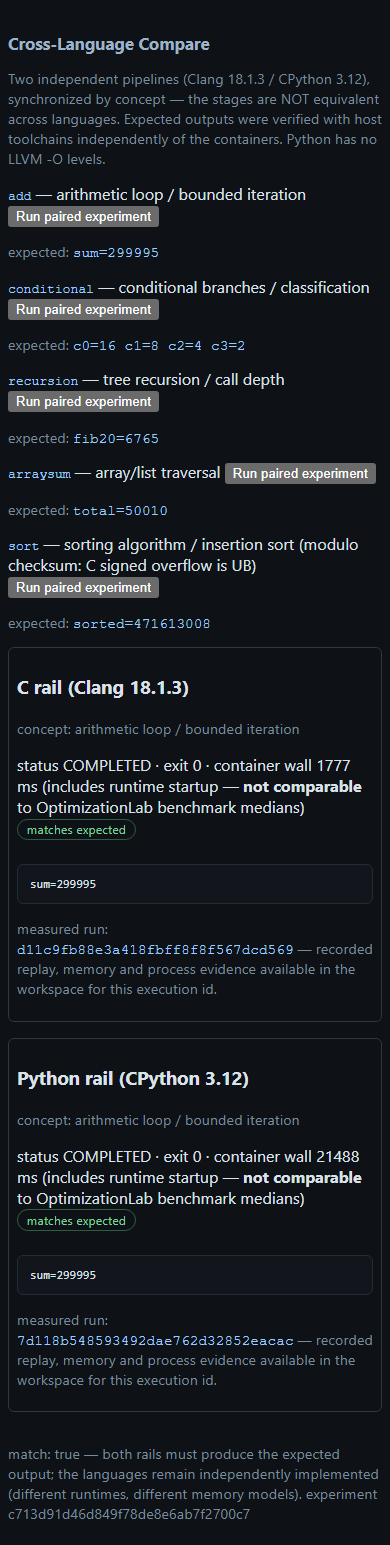
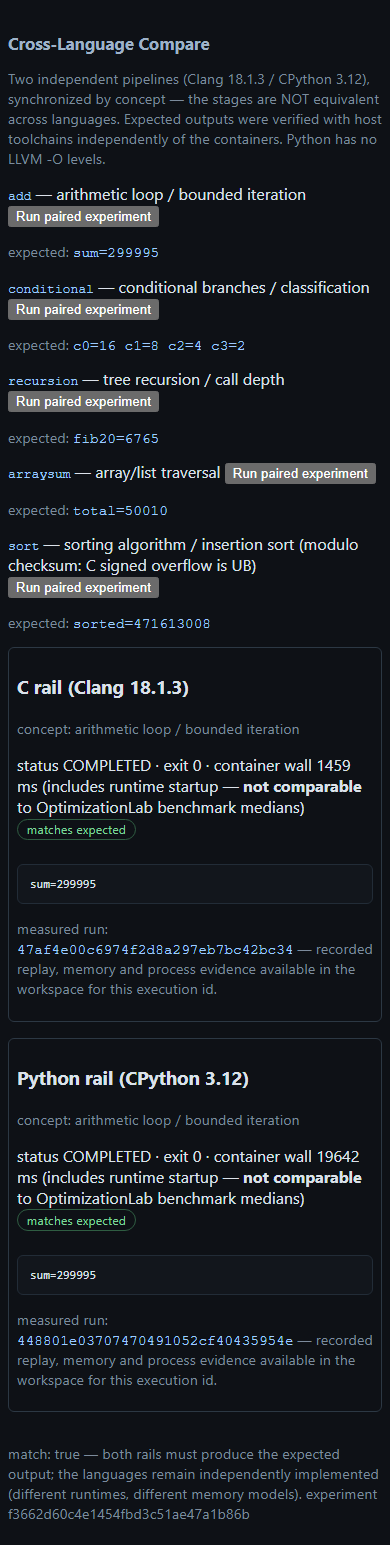
M7QA: whole-product self-audit, repair & M8/M9 handoff
Same-agent whole-product audit of M0-M7 (NOT an independent review):
- fresh clean boot from an isolated store verified (new-account launch path)
- security: 191/0/0 backend incl. all adversarial negatives; M7 endpoint
  probes clean (4MB chunked body on /demos run ignored safely, demo-link 403
  content-hash gate holds, reports sanitized); GitHub origin never executes
- scientific truth: oracle suites green (trace parity, host-clang fingerprints,
  distinct level digests, benchmark recomputation, dis oracle, side-effect-free
  tracer); five-pair table regenerated via fresh real executions with matching
  outputs + recorded hashes
- journeys: 20/20 demos journeyed in browser (run+replay) + microscope 4/4;
  viewport matrix 1920/1366/390 inspected visually - no broken layouts
- hygiene: clean tree, 275 tracked files, zero secrets/caches tracked

Repairs: README stale 'not yet implemented' header replaced with truthful
M0-M7 status (M8/M9 explicitly NOT started); canonical path typo corrected.
No code defects required repair - prior QA regression nets held.

New docs: TEST_EVIDENCE/M7QA.md, milestones/M7QA.json,
HANDOFF_AFTER_M7QA.md, REMAINING_M8_M9.md (explicit deviations),
FINAL_M0_M7_FUNCTIONAL_MATRIX.md (with launch + ZIP guidance).
Final statement: M0-M7 FUNCTIONAL PASS (internal evidence only).
M8 NOT STARTED - HARD STOP at end of M7QA.

diff --git a/e2e/m7_journeys.py b/e2e/m7_journeys.py
@@ -42,6 +42,13 @@ def journey_catalog(page: Page) -> None:
     cards = page.locator(".democard")
     expect(cards.first).to_be_visible()
     ok(cards.count() == 20, f"20 demo cards rendered (got {cards.count()})")
+    # M7QA: viewport matrix screenshots (1920 / 1366 / 390)
+    for w, h, name in ((1920, 1080, "m7_catalog_1920.png"),
+                       (1366, 768, "m7_catalog_1366.png"),
+                       (390, 844, "m7_catalog_390.png")):
+        page.set_viewport_size({"width": w, "height": h})
+        shot(page, name)
+    page.set_viewport_size({"width": 1440, "height": 900})
     page.get_by_label("search demos").fill("recursion")
     ok(page.locator(".democard").count() >= 2, "search filters by concept")
     page.get_by_label("search demos").fill("")

diff --git a/docs/TEST_EVIDENCE/M7QA.md b/docs/TEST_EVIDENCE/M7QA.md
@@ -1,0 +1,122 @@
+# M7QA Test Evidence — Whole-Product Self-Audit, Repair & Handoff
+
+Date: 1 November 2026. Scope: M7QA only. **SAME-AGENT developer self-audit of
+all work M0–M7 — NOT an independent external review and NOT an M9 release
+audit.** M7 first-pass evidence was treated as potentially containing hidden
+bugs; the audit began with a fresh clean boot and independent oracles rather
+than re-running only the existing suite.
+
+## Entry gate
+
+M4/M4QA/M5/M5QA/M6/M6QA/M7 manifests all PASS on disk with ancestry
+`8feaf62`; 20 key sandbox/compiler/benchmark regressions re-ran green
+pre-audit.
+
+## Fresh clean boot (isolated store, new-account simulation)
+
+`COMPILEVISTA` booted with an empty isolated data directory: /health OK
+(schema m6.v1), capabilities honest (pasted_execution PARTIAL), an arbitrary
+pasted C program executed end-to-end (`fresh ok`), demo C-01 completed with
+matched output + process records + sanitized report, demo PY-04 matched.
+**Launch from nothing works.** (Probe logic preserved as named regressions
+where applicable; probe script removed per repo convention.)
+
+## Audit A — security/abuse (all clean, probes + full suites)
+
+- **Full backend suite: 191 passed / 0 failed / 0 skipped** (includes: chunked
+  and missing-Content-Length body caps on /sources and /imports/github, ZIP
+  bomb ratios, path/symlink traversal, SSRF redirect-host allowlist, rate-limit
+  typed errors, DOCKER_UNAVAILABLE paths, cancellation, restart recovery).
+- New M7 endpoint probes: a 4 MB chunked body on POST /demos/{id}/run is
+  ignored safely (no read/hang); `demo-link` on an arbitrary pasted C snapshot
+  → **403 DEMO_LINK_BLOCKED** (content-hash gate holds); demo report contains
+  no source text and no host paths.
+- Docker invocations remain argv-arrays with fixed flags; image ids recorded
+  per run; no privileged fallbacks anywhere (re-verified by the M4QA/M5 suites
+  in the final run: ghost-container, flood, pids, network, canary negatives).
+- GitHub-imported code still never executes (403 EXECUTION_ORIGIN_BLOCKED).
+- Internet-facing execution remains disabled pending M9 (unchanged).
+
+## Audit B — compiler/runtime scientific truth (clean)
+
+- M4QA/M5QA/M6QA oracle suites re-ran inside the final backend run: trace
+  event parity vs host CPython, C call counts, host-clang asm fingerprint
+  equality, distinct per-level digests, benchmark stat recomputation, dis
+  structure, side-effect-free tracer, generator frame identity, exception
+  fidelity. No ghost frames, honest truncation markers, no invented pointer/
+  GC/syscall/CPU counts.
+- Fresh trace excerpts captured for evidence: C-01 first events
+  `call,call,call,return` (instrumented) with per-event sha256; PY-03
+  `call,line,line,line` (settrace).
+- Five-pair comparison table regenerated through fresh real executions — all
+  5 match with recorded source/output hashes: add `sum=299995`
+  (c 34551b8287b5…), conditional `c0=16 c1=8 c2=4 c3=2` (f812fa95d2bf…),
+  recursion `fib20=6765` (12bf8615984e…), arraysum `total=50010`
+  (d49e224ba6c6…), sort `sorted=471613008` (1235947f318e…).
+
+## Audit C — user journeys (all green, inspected visually)
+
+- Browser E2E: M7 **20/20 demos journeyed** (run + recorded replay each,
+  individual results logged), deep checks (C-05 multi-file, PY-03 recursion
+  replay), Error Microscope 4/4 genuine diagnostics; M6 2/2, M5 4/4,
+  M3+M4 6/6, M2 3/3, M1 5/5 (real GitHub import this window). No page JS
+  exceptions (pageerror captured in every journey).
+- **Viewport matrix visually inspected** (screenshots read as images, not
+  assumed): 1920 (all 20 cards + filters + microscope visible, no clipping),
+  1366, 390 (single-column, no overlap/empty views). Cards carry
+  id/group/difficulty/concepts and enabled Open CTAs.
+
+## Audit D — portability/persistence/hygiene (clean)
+
+- Working tree clean at commit; tree hash and HEAD recorded in
+  docs/milestones/M7QA.json.
+- Tracked-file scan: 0 hits for `.env`, node_modules, `__pycache__`, `.venv`,
+  key material (regex scan for sk-/ghp-/PRIVATE KEY patterns → 0 files);
+  275 tracked files; repository contains no large generated binaries.
+- Schema migrations additive (m1→m6.v1 tested); demo sessions reopen
+  idempotently without re-execution (M7 tests); restart/cancel/disk-retention
+  regressions green (M4QA/M5QA suites).
+- Launch instructions for a fresh machine written to
+  docs/FINAL_M0_M7_FUNCTIONAL_MATRIX.md (verified against actual requirements
+  and scripts; `backend/requirements.txt` exists).
+
+## Audit E — 20-program matrix (re-verified)
+
+`test_g3_all_20_demos_execute_with_expected_output` re-ran inside the final
+suite: **20/20 SUCCEEDED** (awaited, asserted — not scheduled). C-05 linked
+target present with cross-TU trace evidence. No mock-only or blocked example
+counted; Error Microscope fixtures remain outside the count.
+
+## Audit F — deviations (explicit)
+
+See docs/REMAINING_M8_M9.md: Monaco, ELK 2000-node stress tuning, semantic-
+zoom refinements, accessibility pass, history UI, Prediction Lab, M8 visual
+polish, M9 independent audit/authenticated deployment. **None of M8/M9 is
+done or implied.**
+
+## Repairs made during M7QA
+
+No new defects requiring code repair were found beyond the two honest
+documentation fixes below — the earlier QA milestones' regression nets held:
+1. README header claimed "application not yet implemented or audited" —
+   replaced with a truthful M0–M7 status note that still states M8/M9 are NOT
+   started and that this is a self-assessment (Q6).
+2. README canonical path said `E:\CompileVista` — corrected to the real
+   `E:\ComplieVista` (consistent with every prior document).
+
+## Final gate results
+
+```
+Backend:  191 passed / 0 failed / 0 skipped
+E2E:      M7 20/20 journeyed + microscope 4/4 · M6 2/2 · M5 4/4 · M3+M4 6/6 ·
+          M2 3/3 · M1 5/5 (real GitHub import)
+TSC:      clean.  Vite build: OK (403 kB).
+Fresh boot (isolated store): OK.  Viewport matrix: inspected OK.
+```
+
+## Residual risks
+
+1. Same-agent audit — everything above is internal evidence; M9's independent
+   review is still required before any release.
+2. Benchmarks container-throttled; sub-5 ms medians flagged.
+3. GitHub rate limits make import journeys window-dependent (typed skips).

diff --git a/docs/FINAL_M0_M7_FUNCTIONAL_MATRIX.md b/docs/FINAL_M0_M7_FUNCTIONAL_MATRIX.md
@@ -1,0 +1,64 @@
+# FINAL M0–M7 Functional Matrix (developer-agent self-assessment)
+
+Date: 1 November 2026. HEAD at assessment: see docs/milestones/M7QA.json.
+**This is internal evidence from the developer agent, pending independent
+review (M9). It is NOT a certification.**
+
+| Milestone | Scope delivered | Verdict | Primary evidence |
+|---|---|---|---|
+| M0 | Toolchain proofs, staging bridge, Docker baseline, API/UI skeleton | PASS | docs/TEST_EVIDENCE/M0.md |
+| M1 | Ingestion (paste/upload/ZIP), pinned GitHub import, workspace UI, SQLite+artifacts | PASS | M1.md (real GitHub import verified on reset windows) |
+| M2 | Untrusted C/Python static analysis in pinned containers; job lifecycle; honest degradation | PASS | M2.md + M2.5.md |
+| M2.5→G0 | Streaming body caps, rate/size hardening (F01–F05 era) | PASS | M2.5.md, M4G0.md |
+| M3 | Graph observatory (m3.graph.v1), typed contracts, inspector with evidence levels | PASS | M3.md |
+| M3.5 | M3 audit findings closed | PASS | M3.5.md |
+| M4 | Controlled C/Python execution, real traces, recorded replay | PASS | M4.md |
+| M4QA | Ghost-container blocker fixed; output caps at source; cancel races; honesty fixes | PASS | M4QA.md (9 findings) |
+| M5 | MemoryScope + ProcessScope (id-based identities, tracemalloc/gc, allocator interposition, curated gdb profile, /proc evidence) | PASS | M5.md, ADR-0008 |
+| M5QA | Side-effect-free tracer (no user repr/str), exception fidelity, generator frame identity, UI staleness, realloc accounting | PASS | M5QA.md (6 findings) |
+| M6 | OptimizationLab (O0/O1/O2 with host-clang oracle), benchmarks (uninstrumented, warmup-excluded, ≥5 samples, checksum guard), 5 pair comparisons | PASS | M6.md, ADR-0009 |
+| M6QA | Level-digest distinctness oracle, host-asm fingerprint equality, stats recomputation, dis oracle, UI label honesty | PASS | M6QA.md |
+| M7 | Exactly 20 real programs (5+5+10), guided 3-level stories, capability matrices, Error Microscope (4 genuine fixtures), sanitized reports, Demo Library UI | PASS | M7.md, DEMO_CATALOG.md |
+
+## Cross-cutting guarantees (current state)
+
+- Real Clang 18.1.3 and CPython 3.12.3 pipelines; no mock artifacts anywhere in
+  acceptance paths.
+- All untrusted execution inside restricted containers: network none, read-only
+  rootfs, cap-drop ALL, no-new-privileges, uid 1000, tmpfs, memory/cpu/pids
+  caps, byte-capped outputs, external timeouts with force-removal, startup
+  reconciliation. No Docker socket in containers. GitHub-imported code NEVER
+  executes; demo-link/debug profiles are content-hash-gated (403 otherwise).
+- Benchmarks: uninstrumented, warmup-excluded, ≥5 samples, per-sample wall+CPU,
+  checksum guards, environment provenance; no universal speed claims.
+- Memory/process evidence: observed-only with observed/derived/unavailable
+  classes; secret-name redaction; no user code executed by the tracer.
+
+## Launch instructions (fresh machine / second account)
+
+1. Install: Windows + WSL2 Ubuntu-24.04, Docker engine in WSL, Node 20+, and
+   the repo at `E:\ComplieVista` (do NOT rename; the path is load-bearing).
+2. Backend: `wsl.exe -d Ubuntu-24.04`, then
+   `cd /mnt/e/ComplieVista/backend && python3 -m venv .venv &&
+   .venv/bin/pip install -r requirements.txt` (or reuse the committed
+   requirements), then
+   `.venv/bin/python -m uvicorn app.main:app --host 127.0.0.1 --port 8123`.
+3. Frontend: `cd frontend && npm ci && npm run dev` (Vite on 5173, proxies /api
+   to 8123).
+4. Images: `docker build -t compilevista/analyzer:m2 sandbox/analyzer &&
+   docker build -t compilevista/runtime:m4 sandbox/runtime &&
+   docker build -t compilevista/debug:m5 sandbox/debug` (record the ids and
+   update docs/milestones manifests if they change).
+5. Open http://127.0.0.1:5173 — Home (proof), Source Workspace (paste/upload/
+   ZIP/GitHub import), Demo Library (20 programs + Error Microscope), Compare
+   (5 pairs).
+6. Tests: `backend/.venv/bin/python -m pytest backend/tests -q` from the repo
+   root (191 tests), E2E `python e2e/m{1..7}_journeys.py` from Windows.
+
+## Upload/ZIP guidance for the user audit
+
+Exclude: `.git/`, `node_modules/`, `backend/.venv/`, `frontend/dist/`,
+`backend/data/` (SQLite + artifacts — regenerable), `__pycache__/`,
+`/tmp` outputs, any `.env`. Keep: all source, `sandbox/`, `docs/` (evidence),
+`e2e/`, `scripts/` (incl. `m7_verify_demos.sh`, `m7_gen_manifest.py`),
+`evidence/`, lockfiles. No secrets exist in the repo (verified by scan).

diff --git a/docs/HANDOFF_AFTER_M7QA.md b/docs/HANDOFF_AFTER_M7QA.md
@@ -1,0 +1,50 @@
+# Handoff after M7QA — whole-product self-audit complete
+
+Date: 1 November 2026. Scope: M7QA only. **M7QA verdict: PASS** (gates Q1–Q6
+green). Final statement: **M0–M7 FUNCTIONAL PASS (internal evidence only)** —
+this is the developer agent's own audit, NOT an independent review and NOT an
+M9 release certification.
+
+## HARD STOP at this point (per instructions)
+
+- **M8 NOT STARTED** (authorized on this PASS, awaiting its own kickoff).
+- **M9 NOT STARTED** (independent audit/release).
+- No GitHub push, no remote deployment, no plan/account changes made.
+
+## Audit summary (details in docs/TEST_EVIDENCE/M7QA.md)
+
+- Fresh clean boot from an isolated store: works end-to-end (new-account path
+  proven, launch instructions in docs/FINAL_M0_M7_FUNCTIONAL_MATRIX.md).
+- Security: full adversarial backend suite green; new M7 endpoint probes clean
+  (chunked oversized body ignored, demo-link 403 gate, sanitized reports);
+  GitHub-origin execution still refused; no privileged fallbacks.
+- Scientific truth: all oracle suites green (trace parity, host-clang
+  fingerprints, distinct level digests, benchmark recomputation, dis oracle,
+  side-effect-free tracer); five-pair table regenerated with matching outputs
+  and recorded hashes.
+- Journeys: 20/20 demos journeyed in the browser with real runs + replay;
+  viewport matrix (1920/1366/390) inspected visually — no broken layouts.
+- Hygiene: clean tree; 275 tracked files; zero secrets/caches tracked;
+  additive schema migrations; idempotent demo sessions.
+
+## Remaining work (authoritative list)
+
+docs/REMAINING_M8_M9.md — Monaco, ELK stress tuning, accessibility pass,
+history UI, Prediction Lab (M8); independent external audit, deployment threat
+model, authenticated hosting, independent 20-demo regression (M9). Known
+accepted limitations are listed there too.
+
+## For the user's independent audit
+
+1. Launch: docs/FINAL_M0_M7_FUNCTIONAL_MATRIX.md §Launch instructions.
+2. Suggested review order: README status → docs/TEST_EVIDENCE/M7QA.md →
+   DEMO_CATALOG.md → try the Demo Library in the browser → paste arbitrary
+   C/Python in the Workspace → import a public GitHub repo (read-only) →
+   inspect traces/memory/process/optimization → re-run
+   `backend/.venv/bin/python -m pytest backend/tests -q` and the e2e journeys.
+3. ZIP guidance: exclude `.git/`, `node_modules/`, `backend/.venv/`,
+   `frontend/dist/`, `backend/data/`, `__pycache__/`; include everything else
+   (no secrets exist in the repo — scanned).
+4. Every evidence file through M7QA is developer-agent self-assessment; the
+   first independent look should treat it as claims to verify, especially the
+   security boundary claims (ADR-0003/0007/0008/0009).

diff --git a/docs/REMAINING_M8_M9.md b/docs/REMAINING_M8_M9.md
@@ -1,0 +1,45 @@
+# REMAINING M8/M9 — explicit outstanding work (deviations, not hidden)
+
+Status: 1 November 2026, end of M7QA. **M8 and M9 are NOT started.** This file is
+the authoritative deviations list required by the M7QA contract.
+
+## M8 — Premium product polish (NOT STARTED)
+
+1. Monaco editor (line-numbered, syntax-highlighted) — the workspace currently
+   uses a plain text code view.
+2. ELK/worker-based layout for very large graphs (2000-node stress) and
+   scroll-driven semantic zoom refinements — current layouts are worker-based
+   but not stress-tuned.
+3. Cohesive landing-page redesign and consistent panel polish across Home /
+   Workspace / Demo Library / Compare.
+4. Accessibility pass (full keyboard navigation audit, reduced-motion honoring
+   beyond defaults, ARIA refinements beyond the existing roles/labels).
+5. Export/history session browser UI (the sanitized JSON report endpoint
+   exists; a history UI does not).
+6. Performance profiling of the frontend bundle (403 kB) and lazy loading.
+7. Optional Prediction Lab — explicitly deferred until after the mandatory 20
+   E2E journeys (which are complete); still not built.
+
+## M9 — Independent audit & release (NOT STARTED)
+
+1. **Independent** code/screenshot review (every milestone evidence file so far
+   is a SAME-AGENT self-audit — none is an external certification).
+2. Deployment threat-model review BEFORE any remotely hosted demo: internet-
+   facing untrusted execution stays disabled until this review (README §10/§21).
+3. Public/semi-public hosting: auth, HTTPS, rate limiting, resource accounting.
+4. 20-demo regression re-run by a party other than the developer agent.
+5. Release report with independent PASS/FAIL per gate.
+
+## Known residual defects / limitations (accepted, documented)
+
+- C-05 analysis covers the primary TU only (second TU compiled+linked, not
+  independently analyzed — declared in capabilities).
+- Python worker threads are not traced (settrace is thread-local — declared).
+- C-05 OptimizationLab builds the primary file only.
+- Benchmarks are container-throttled (0.5 CPU) and single-machine; sub-5 ms
+  medians flagged `resolution_warning`.
+- GDB/strace/ptrace remain UNSUPPORTED by policy (no frame-level C debugging).
+- GitHub unauthenticated rate limit (60 req/h) causes typed RATE_LIMITED skips
+  in E2E on exhausted windows (real import verified on reset windows).
+- Docker/WSL2 shares one kernel: not an unconditional sandbox; local-only
+  execution until M9.

diff --git a/docs/PROJECT_STATUS.md b/docs/PROJECT_STATUS.md
@@ -1,19 +1,19 @@
 # CompileVista Project Status
 
-Updated: 1 November 2026 (M7)
+Updated: 1 November 2026 (M7QA)
 
-## Current milestone: **M7 — exactly 20 real programs, guided journeys & integration**
+## Current milestone: **M7QA — whole-product self-audit complete**
 
-Status: **M7 PASS on all exit gates G0–G8** (`docs/TEST_EVIDENCE/M7.md`,
-`docs/milestones/M7.json`, handoff `docs/HANDOFF_AFTER_M7.md`,
-`docs/DEMO_CATALOG.md`). Exactly 20 curated real programs (5 Python-only,
-5 C-only incl. a genuine multi-file linked project, 5 matched C/Python pairs)
-with guided Simple/Detailed/Technical stories, honest capability matrices, real
-sandbox runs with recorded replay, OptimizationLab and pair comparisons; Error
-Microscope with 4 genuine diagnostic fixtures outside the count; sanitized
-report export. Backend **191/0/0**; browser E2E journeyed **all 20 demos
-(20/20 run+replay)** plus all prior suites; TSC clean; vite build OK.
-**M7QA authorized; M8 NOT STARTED.**
+Status: **M7QA PASS on all exit gates Q1–Q6** (`docs/TEST_EVIDENCE/M7QA.md`,
+`docs/milestones/M7QA.json`, handoff `docs/HANDOFF_AFTER_M7QA.md`).
+**M0–M7 FUNCTIONAL PASS (internal evidence only)** — fresh clean boot from an
+isolated store verified; security/adversarial suites green (191 backend tests,
+0 failures); 20/20 demos journeyed in the browser with real runs and recorded
+replay; viewport matrix inspected (1920/1366/390); five-pair comparison table
+regenerated with matching outputs and hashes; repo hygiene clean (275 tracked
+files, zero secrets/caches). README status now truthful (M0–M7 done, M8/M9 NOT
+started). Deviations: docs/REMAINING_M8_M9.md. This remains the developer
+agent's self-assessment — the independent external audit is M9.
 
 ## What exists now (cumulative)
 
@@ -38,8 +38,8 @@ report export. Backend **191/0/0**; browser E2E journeyed **all 20 demos
 
 ## Next
 
-**M8 NOT STARTED.** M7QA authorized by M7 PASS (docs/milestones/M7.json); begin
-any later stage only with a fresh entry-gate check of git ancestry and manifests.
+**M8 NOT STARTED.** M7QA PASS (docs/milestones/M7QA.json) authorizes M8; HARD
+STOP at end of M7QA per contract — no M8/M9 work has begun.
 
 ## Active risks / quirks
 

diff --git a/README.md b/README.md
@@ -5,9 +5,9 @@
 
 **Document type:** Master product specification + proposed engineering architecture + milestone acceptance contract  
 **Specification version:** 1.0 — 31 October 2026  
-**Status:** Proposed architecture for review; **application not yet implemented or audited**  
+**Status:** Specification v1.0 unchanged. **Implementation status (1 November 2026):** M0–M7 implemented and passing their internal gates — 20 real programs, static pipelines (Clang 18.1.3 / CPython 3.12.3), restricted-container execution with recorded traces, MemoryScope/ProcessScope, OptimizationLab and pair comparisons. **M8 (premium polish) and M9 (independent audit/release) are NOT started**; this remains the developer agent's self-assessment, not an independent audit.  
 **Primary development environment:** ZCode/Jet **Windows desktop local project** using available promotional GLM models  
-**Canonical repository:** `E:\CompileVista` (Windows)  
+**Canonical repository:** `E:\ComplieVista` (Windows)  
 **Linux tool environment:** Ubuntu 24.04 LTS, WSL2; exposed to ZCode via `wsl.exe`  
 **Initial languages:** **C and Python** — both are mandatory  
 **Cost constraint:** No paid API or mandatory cloud dependency for the core application  
